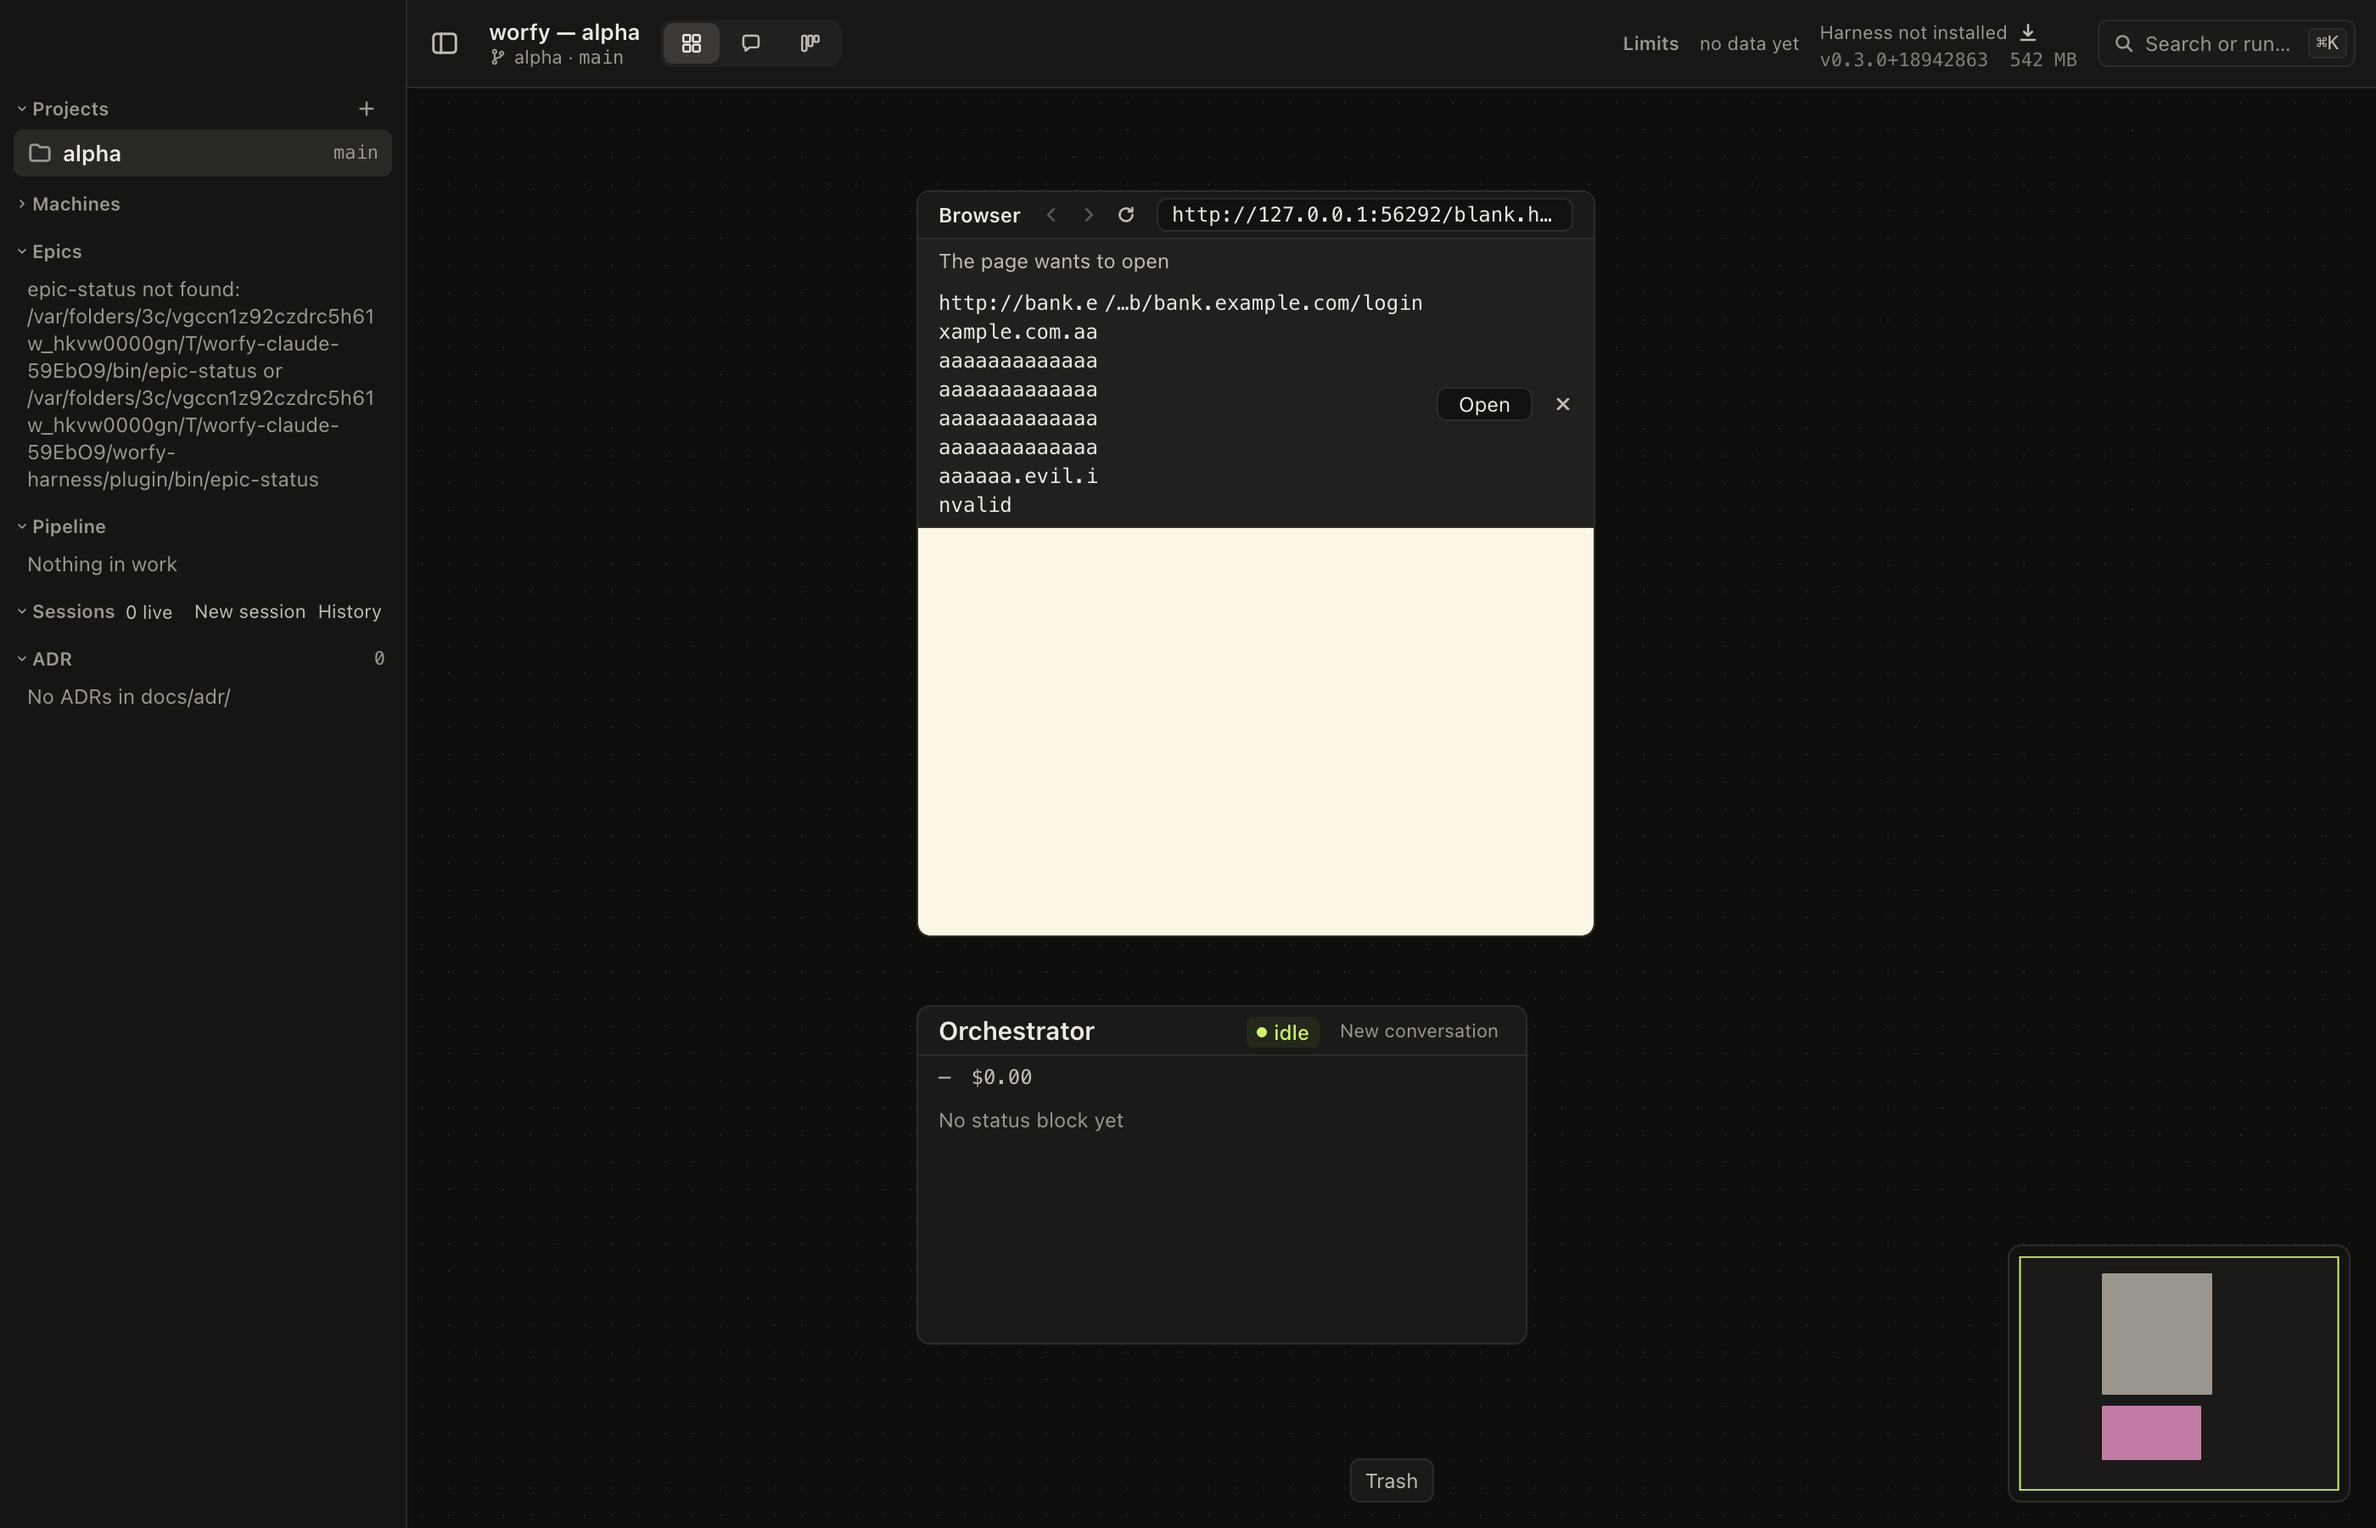
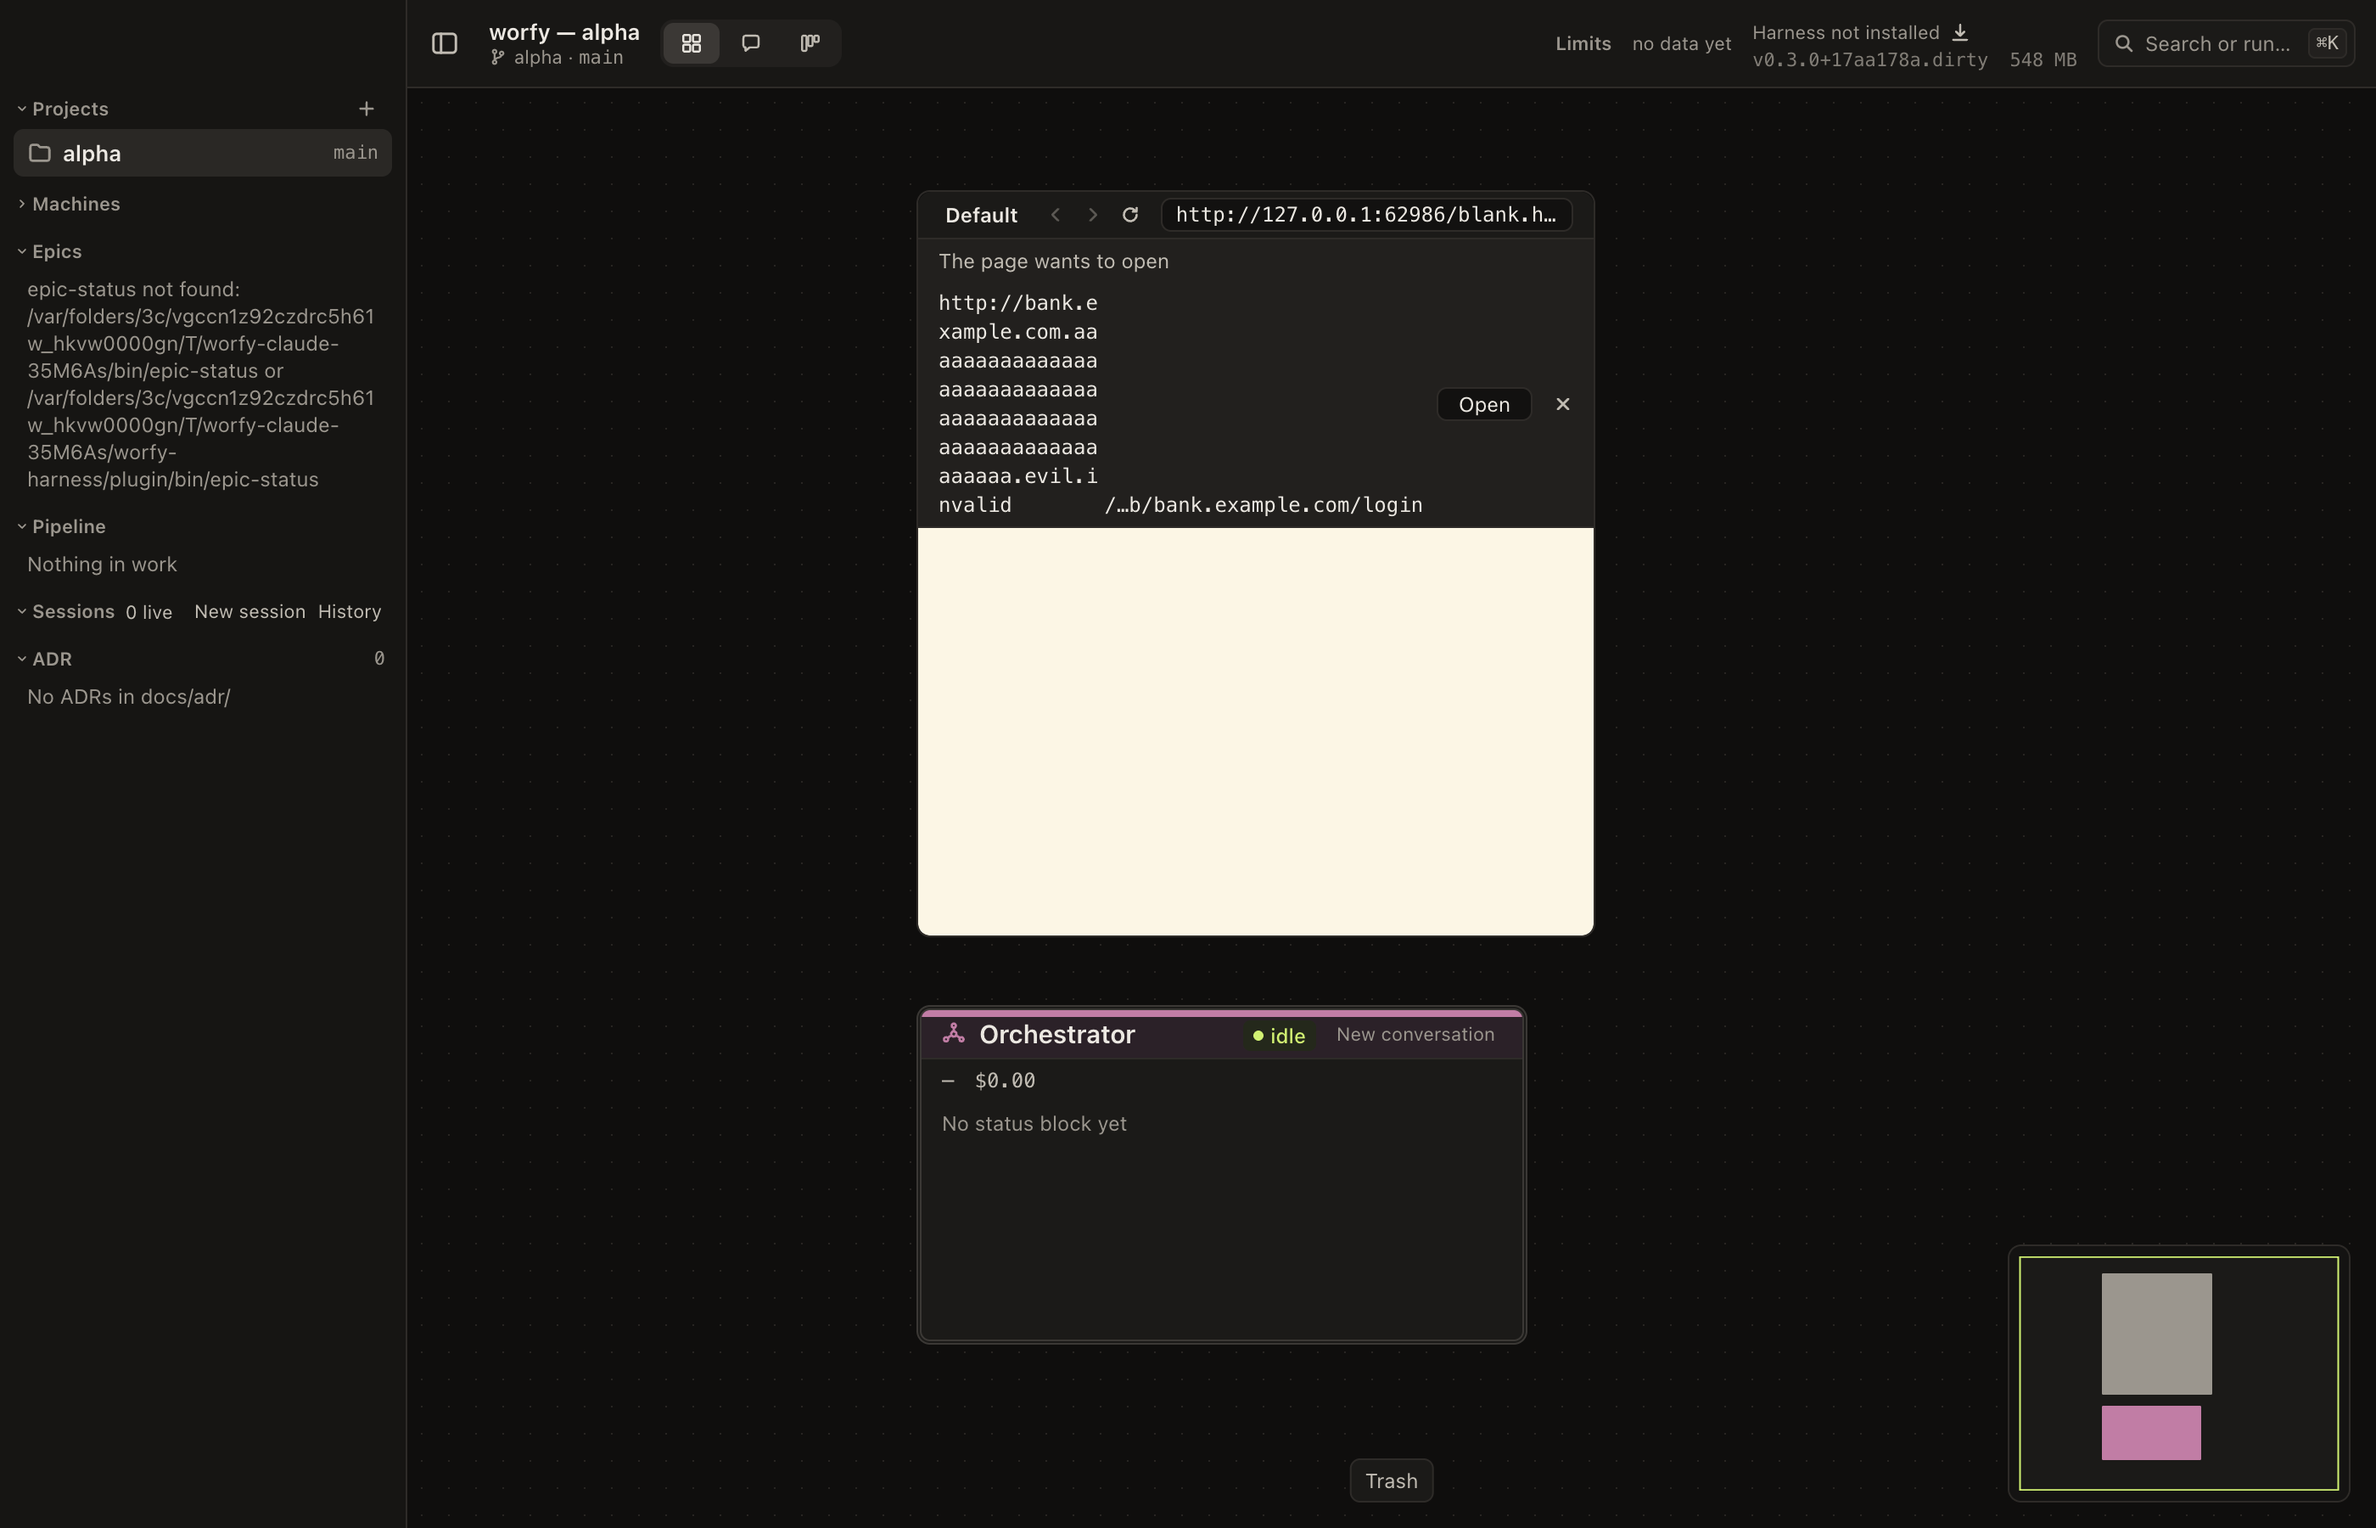
Open bar: the path follows the host's last line, not its first
In a narrow frame a long host wraps onto several lines. The path's head
and tail were aligned to the host's first baseline, so the top line read
as one whole address made of the host's start and the path's end. The
address now aligns its parts on their last baseline. The host stays
whole; only the path is cut.

The e2e test of the long host now checks, at 640 and 400 px, that the
host wraps and that the middle of the path's head and tail falls within
the host's last line.

diff --git a/test/e2e/browser.spec.ts b/test/e2e/browser.spec.ts
@@ -541,6 +541,8 @@ test('a rel="noreferrer" link of the page is offered in the Open bar: Open sends
 // the scheme and host whole — wrapping onto more lines when they do not fit — and cuts only the path.
 // In a narrow frame (review of PR #630) the host keeps room for at least 12 characters: the address
 // moves to a line of its own under the label instead of squeezing the host to a column of letters.
+// worfy-browser ticket 13: when the host wraps, the path stands after its last line, never beside the
+// first — otherwise the top line reads as a whole address (`http://bank.e` + `…/bank.example.com/login`).
 for (const { width, name, underLabel } of [
   { width: 640, name: 'long', underLabel: false },
   { width: 400, name: 'long-narrow', underLabel: true },
@@ -583,6 +585,12 @@ for (const { width, name, underLabel } of [
       site.append(probe)
       const twelveChars = probe.getBoundingClientRect().width
       probe.remove()
+      // The lines the host takes, as the browser laid them out.
+      const range = barElement.ownerDocument.createRange()
+      range.selectNodeContents(site)
+      const lines = [...range.getClientRects()].filter((rect) => rect.width > 0)
+      const lastLine = lines[lines.length - 1]
+      const headBox = head.getBoundingClientRect()
       return {
         siteWhole: site.scrollWidth <= site.clientWidth && site.scrollHeight <= site.clientHeight,
         siteInBar: inside(siteBox, barBox),
@@ -592,9 +600,16 @@ for (const { width, name, underLabel } of [
         buttonsInBar: [...barElement.querySelectorAll('button')].map((button) => inside(button.getBoundingClientRect(), barBox)),
         barUnder240: barBox.height < 240,
         underLabel: label.getBoundingClientRect().bottom <= part('browser-open-url').getBoundingClientRect().top + 0.5,
+        siteWraps: lines.length > 1,
+        // The middle of each path part falls within the host's last line (a span's line box is
+        // taller than the glyph rectangles a Range reports, so the edges are not compared).
+        pathOnLastHostLine: [headBox, tailBox].map((box) => {
+          const middle = (box.top + box.bottom) / 2
+          return middle >= lastLine.top && middle <= lastLine.bottom
+        }),
       }
     })
-    expect(layout, 'the host is whole, at least 12 characters wide, clear of the tail; the path is cut; Open and Close stay in the bar').toEqual({
+    expect(layout, 'the host is whole, at least 12 characters wide, clear of the tail; the path is cut and stands on the host\'s last line; Open and Close stay in the bar').toEqual({
       siteWhole: true,
       siteInBar: true,
       siteAtLeast12Chars: true,
@@ -603,6 +618,8 @@ for (const { width, name, underLabel } of [
       buttonsInBar: [true, true],
       barUnder240: true,
       underLabel,
+      siteWraps: true,
+      pathOnLastHostLine: [true, true],
     })
     await expect(bar.getByRole('button', { name: 'Open' })).toBeVisible()
     await expect(bar.getByRole('button', { name: 'Close' })).toBeVisible()

diff --git a/src/renderer/canvas/nodes/BrowserNode.css b/src/renderer/canvas/nodes/BrowserNode.css
@@ -147,13 +147,15 @@
    for 12 characters of host and the path's tail (OPEN_BAR_ADDRESS_TAIL, 24 characters). Inside it the
    path's head gives way first (its flex-shrink is far larger) down to nothing; then the host gets
    narrower, down to 12 characters, and wraps onto more lines instead of being cut, so the bar grows
-   taller. Only a frame narrower than that minimum clips the end of the tail. */
+   taller. Only a frame narrower than that minimum clips the end of the tail. The path lines up with
+   the host's last line (worfy-browser ticket 13): beside the first one, the top line would read as a
+   whole address made of the host's start and the path's end. */
 .w-browser-frame__open-url {
   flex: 1 1 0;
   min-width: min(100%, 12ch + 24ch);
   overflow: hidden;
   display: flex;
-  align-items: baseline;
+  align-items: last baseline;
 }
 .w-browser-frame__open-url-site {
   flex: 0 1 auto;
